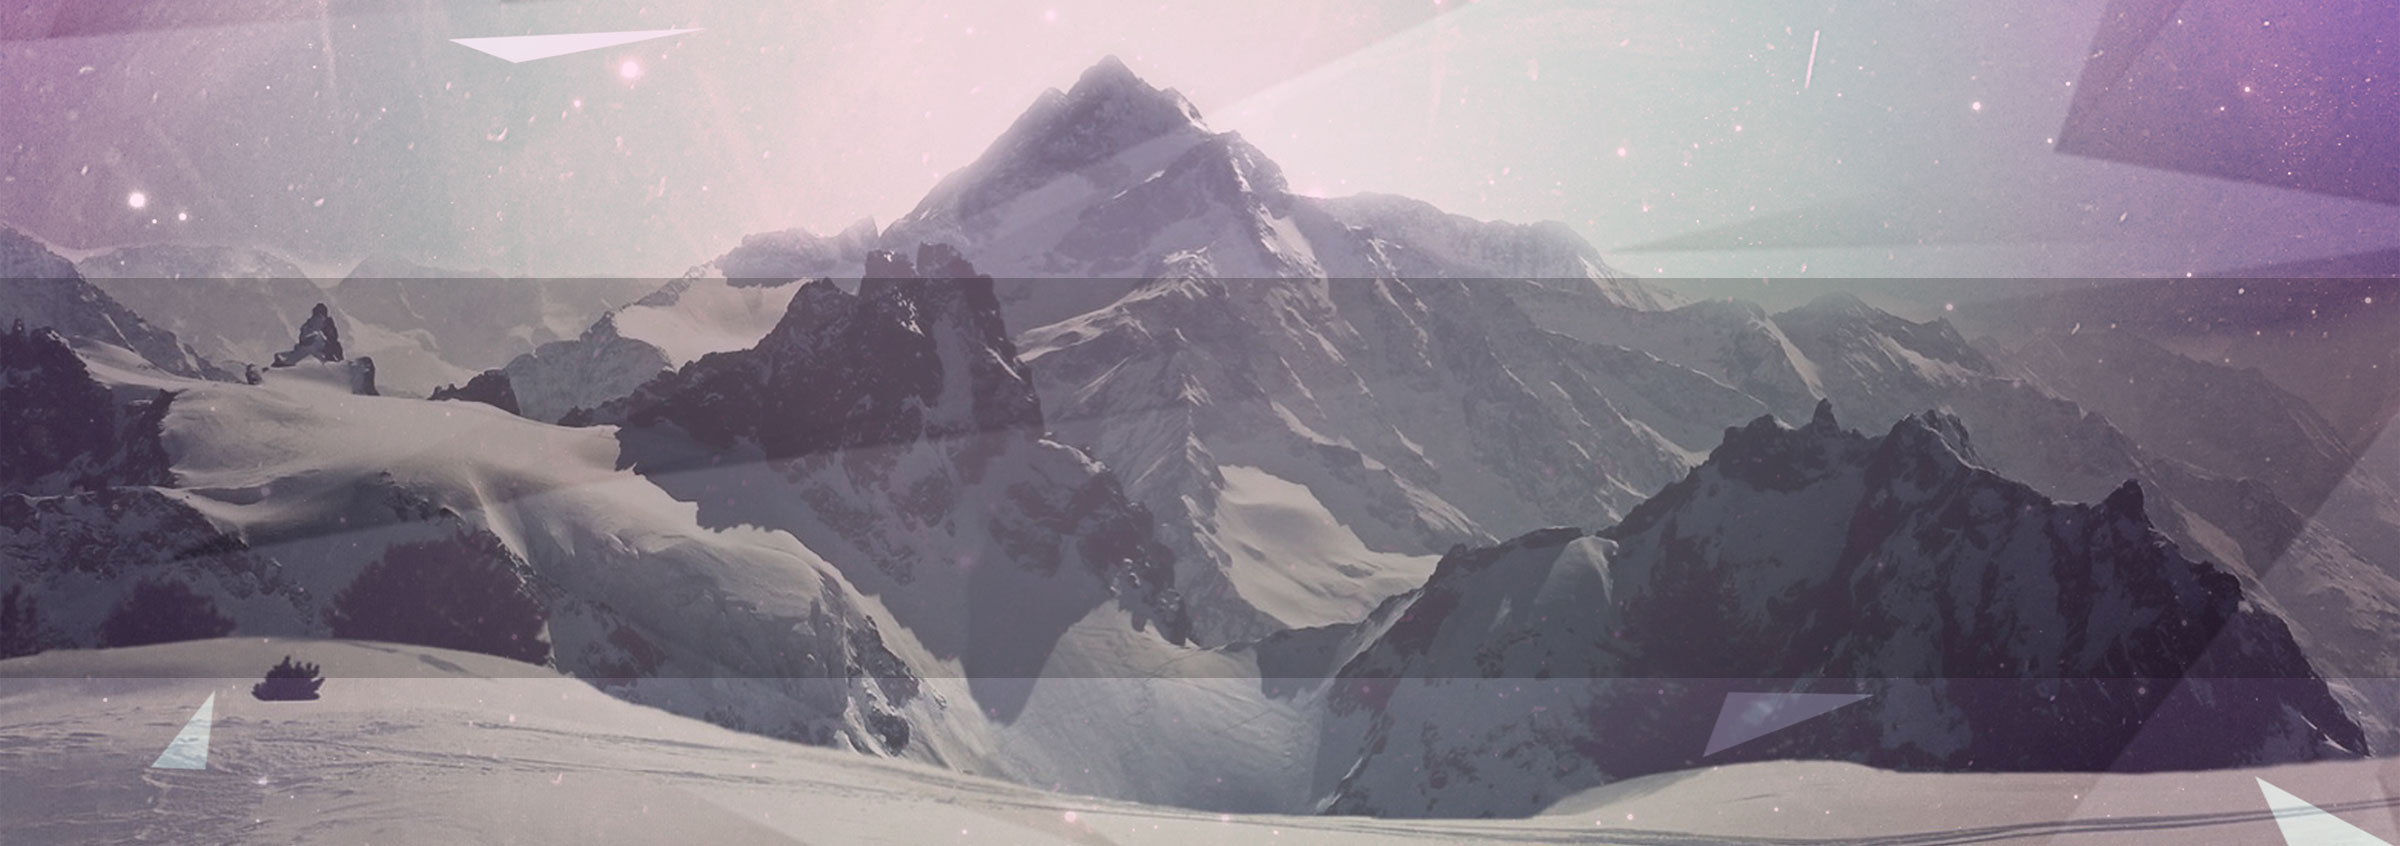
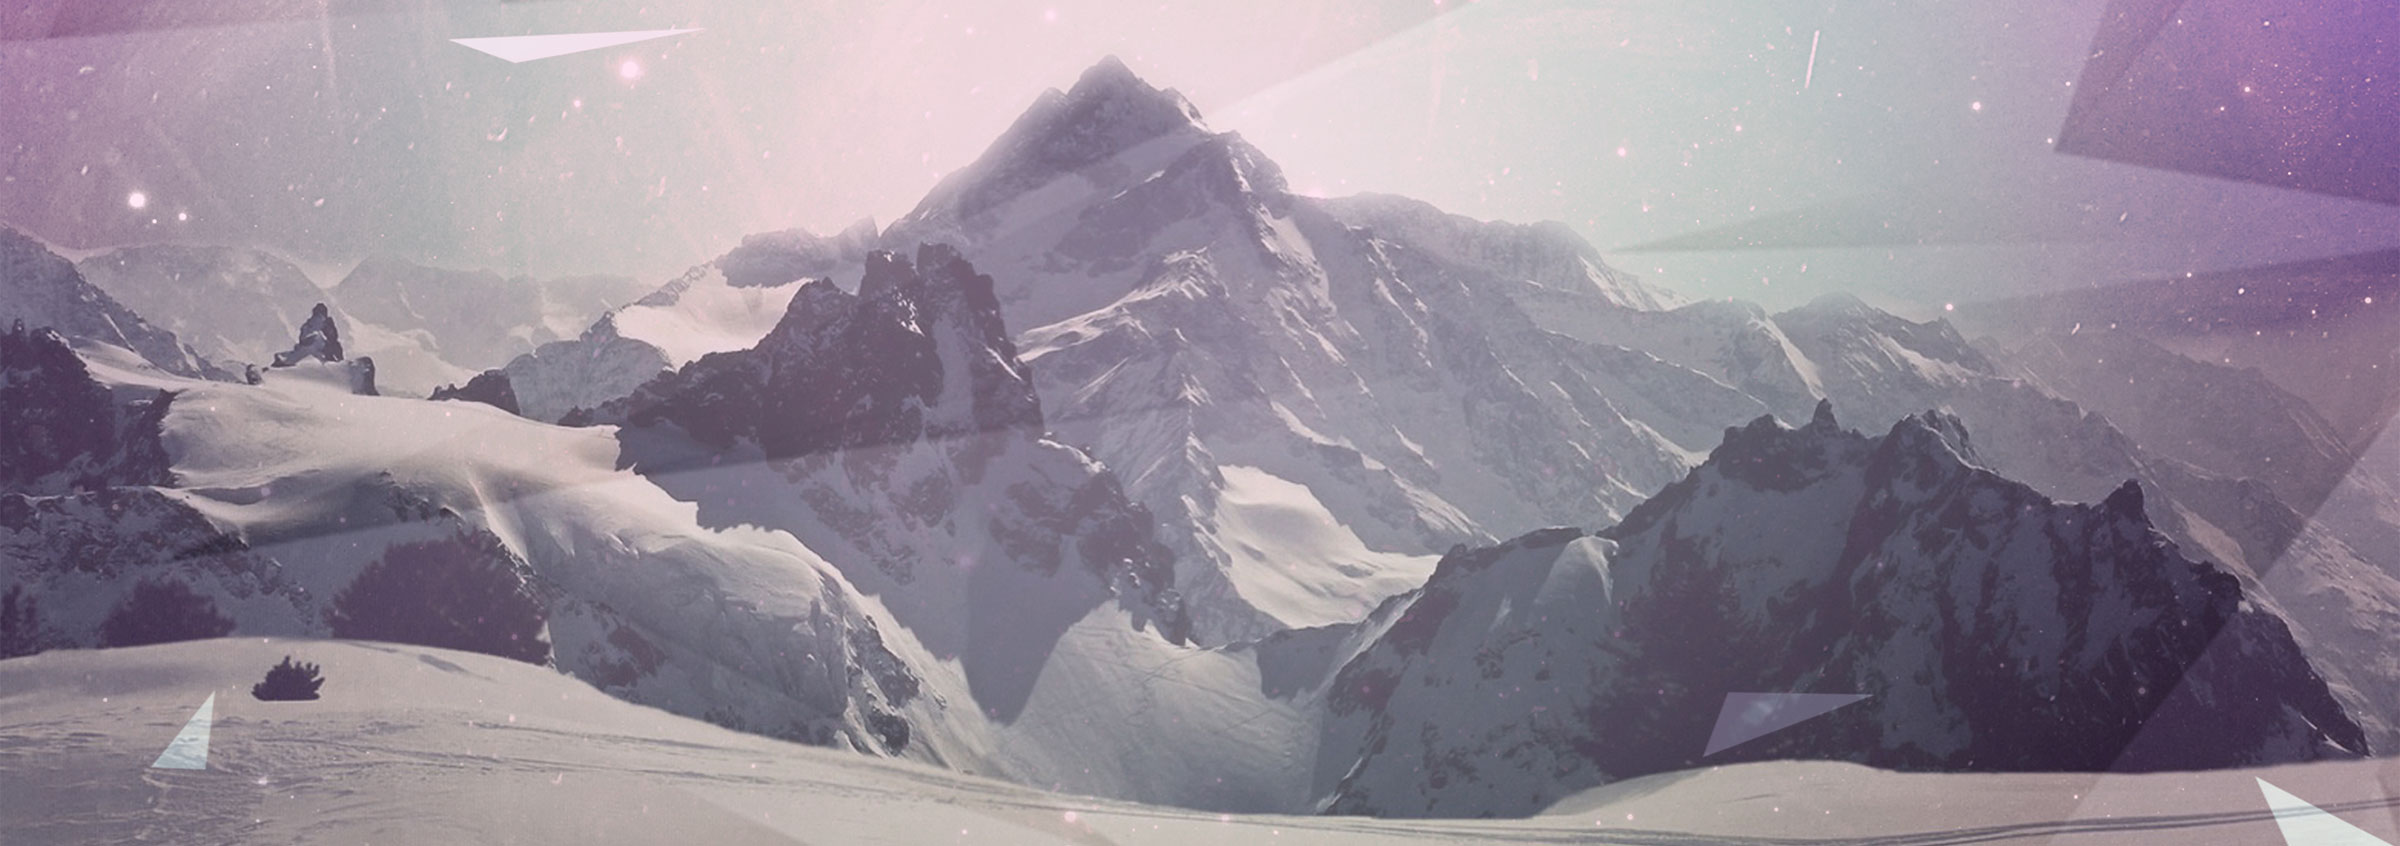
7-8 fixed

diff --git a/FE/mod7-8/index.html b/FE/mod7-8/index.html
@@ -8,8 +8,8 @@
     <link rel="stylesheet" href="css/style.css"/>
 </head>
 <body>
-    <div class="wrapper">
         <div class="superheader">
+            <div class="wrapper">
         <header class="header clearfix">
             <p class="header__logo">PINGBULL<span class="header__logo__color">ER</span></p>
             <ul class="drop-menu"><!--for 480p-->
@@ -31,7 +31,9 @@
                 <li class="menu__item"><a href="#" class="menu__link">LOREM IPSUM</a></li>
                 <li class="menu__item"><a href="#" class="menu__link">DOLOR SIT AMET</a></li>
             </ul>
-        </header>
+        </header> </div>
+            <div class="transparent">
+                <div class="wrapper">
         <div class="slider clearfix">
             <div class="slider__text">
                 <span class="slider__title">Lorem Ipsum Dolor</span>
@@ -45,8 +47,12 @@
                 <img class="slider__image" src="img/iphone.png" alt="iphone"/>
             </div>
         </div>
+            </div>
         </div>
+        </div>
+
         <div class="about clearfix">
+            <div class="wrapper">
             <section class="about__item">
                 <h4 class="about__title">ABOUT OUR COMPANY</h4>
                 <p class="about__text">Nunc turpis neque, feugiat eget eleifend et, lacinia non neque.
@@ -65,8 +71,10 @@
                     Praesent rhoncus <span class="hideabout">ultrices posuere. Pellentesque vel</span><span class="hide">lacus eget nisi convallis auctor. Nam</span></p>
                 <a href="#" class="about__link">READ MORE</a>
             </section>
+                </div>
         </div>
         <div class="testimonial clearfix">
+            <div class="wrapper">
             <div class="testimonial__item">
                 <img class="testimonial__sprite" src="img/man.png" alt="user">
                 <h4 class="testimonial__title">PINGBULLER <span class="testimonial__color">STARTS HERE</span></h4>
@@ -95,7 +103,10 @@
                 <a href="#" class="testimonial__link">READ MORE HERE</a>
                 <a href="#" class="testimonial__link768">MORE BLOG POSTS</a>
             </div>
+                </div>
         </div>
+        <div class="brands">
+            <div class="wrapper">
         <ul class="brands">
             <li class="brands__image"><img src="img/logo1.png" alt="brand"/></li>
             <li class="brands__image"><img src="img/logo2.png" alt="brand"/></li>
@@ -103,8 +114,10 @@
             <li class="brands__image"><img src="img/logo4.png" alt="brand"/></li>
             <li class="brands__image"><img src="img/logo5.png" alt="brand"/></li>
             <li class="brands__image"><img src="img/logo6.png" alt="brand"/></li>
-        </ul>
+        </ul></div>
+        </div>
         <div class="news clearfix">
+            <div class="wrapper">
             <div class="news__item">
                 <h4 class="news__title">PIGBULL<span class="news__color">ER</span></h4>
                 <p class="news__text"><span class="news__copyright">Copyright 2013, Pingbull AS</span>
@@ -127,7 +140,9 @@
                     venenatis quis</p>
             </div>
         </div>
+        </div>
         <footer class="bottom clearfix">
+            <div class="wrapper">
             <ul class="bottommenu">
                 <li class="bottommenu__item"><a href="#" class="bottommenu__link">HOME</a></li>
                 <li class="bottommenu__item"><a href="#" class="bottommenu__link">ABOUT</a></li>
@@ -137,7 +152,7 @@
                 <li class="bottommenu__item"><a href="#" class="bottommenu__link">DOLOR SIT AMET</a></li>
             </ul>
             <div class="designed">Designed by <span class="designed__color">Pingbull AS</span></div>
+            </div>
         </footer>
-    </div>
 </body>
 </html>

diff --git a/FE/mod7-8/css/style.css b/FE/mod7-8/css/style.css
@@ -42,9 +42,6 @@
     font-size: 0;
 }
 @media (min-width: 960px)  {
-    .wrapper {
-        width: 960px;
-    }
     .superheader {
         background: url("../img/background.jpg") no-repeat top center #FFF;
         -webkit-background-size: cover;
@@ -53,7 +50,9 @@
         background-size: cover;
         padding: 67px 0 1px 0;
     }
-    .slider__item480,
+    .wrapper {
+        width: 960px;
+    }
     .drop-menu,
     .brands320 {
         display: none;
@@ -92,9 +91,9 @@
     }
     /*slider*/
     .slider {
-        /*background-color: rgba(0,0,0, 0.3);*/
         margin: 139px 0 170px 0;
         height: 400px;
+        padding:0 0 50px 0;
     }
     .slider__text {
         float:left;
@@ -350,14 +349,12 @@
     }
     /*topmenu*/
     .superheader {
-        background: url("../img/background768.jpg") no-repeat top center #FFF;
+        background: url("../img/background.jpg") no-repeat top center #FFF;
         -webkit-background-size: cover;
         -moz-background-size: cover;
         -o-background-size: cover;
         background-size: cover;
         padding: 67px 0 1px 0;
-    }
-    .header {
     }
     .header__logo {
         float:left;
@@ -393,6 +390,7 @@
     .slider {
         margin: 69px 0 122px 40px;
         height: 400px;
+        padding:0 0 50px 0;
     }
     .slider__text {
         float:left;
@@ -561,7 +559,7 @@
     }
     /*brands*/
     .brands {
-        margin: 115px 0 0 0;
+        padding: 30px 0;
         text-align: center;
         background: #F9F9F9;
     }
@@ -643,7 +641,7 @@
     }
       /*topmenu*/
     .superheader {
-        background: url("../img/background480.jpg") no-repeat top center #FFF;
+        background: url("../img/background.jpg") no-repeat top center #FFF;
         padding: 67px 0 1px 0;
     }
     .header__logo {
@@ -714,7 +712,8 @@
     }
     /*slider*/
     .slider {
-        padding: 67px 0 94px 46px;
+        padding: 67px 0 0 46px;
+        margin: 0 0 70px 0;
     }
     .slider__text {
         float: left;
@@ -869,11 +868,9 @@
     }
     /*brands*/
     .brands {
-        padding: 124px 0 0 19px;
         text-align: center;
         background: #F9F9F9;
-
-        border-top: 1px solid #e6e6e6;
+        padding: 30px 0;
     }
     /*news*/
     .news {
@@ -956,7 +953,7 @@
 
     /*topmenu*/
     .superheader {
-        background: url("../img/background480.jpg") no-repeat top center #FFF;
+        background: url("../img/background.jpg") no-repeat top center #FFF;
         padding: 67px 0 0 6px;
     }
     .header__logo {
@@ -1027,7 +1024,6 @@
     }
     /*slider*/
     .slider {
-        /*background-color: rgba(0,0,0, 0.3);*/
         padding: 33px 0 191px 64px;
     }
     .slider__text {
@@ -1181,10 +1177,10 @@
     }
     /*brands*/
     .brands {
-        padding: 90px 0 65px 0;
         text-align: center;
         background: #F9F9F9;
         border-top: 1px solid #e6e6e6;
+        padding: 30px 0;
     }
     /*footer*/
     .bottom {
@@ -1211,4 +1207,7 @@ body {
 }
 .brands__image {
     padding: 10px 10px;
+}
+.transparent {
+    background-color: rgba(0,0,0, 0.3);
 }
